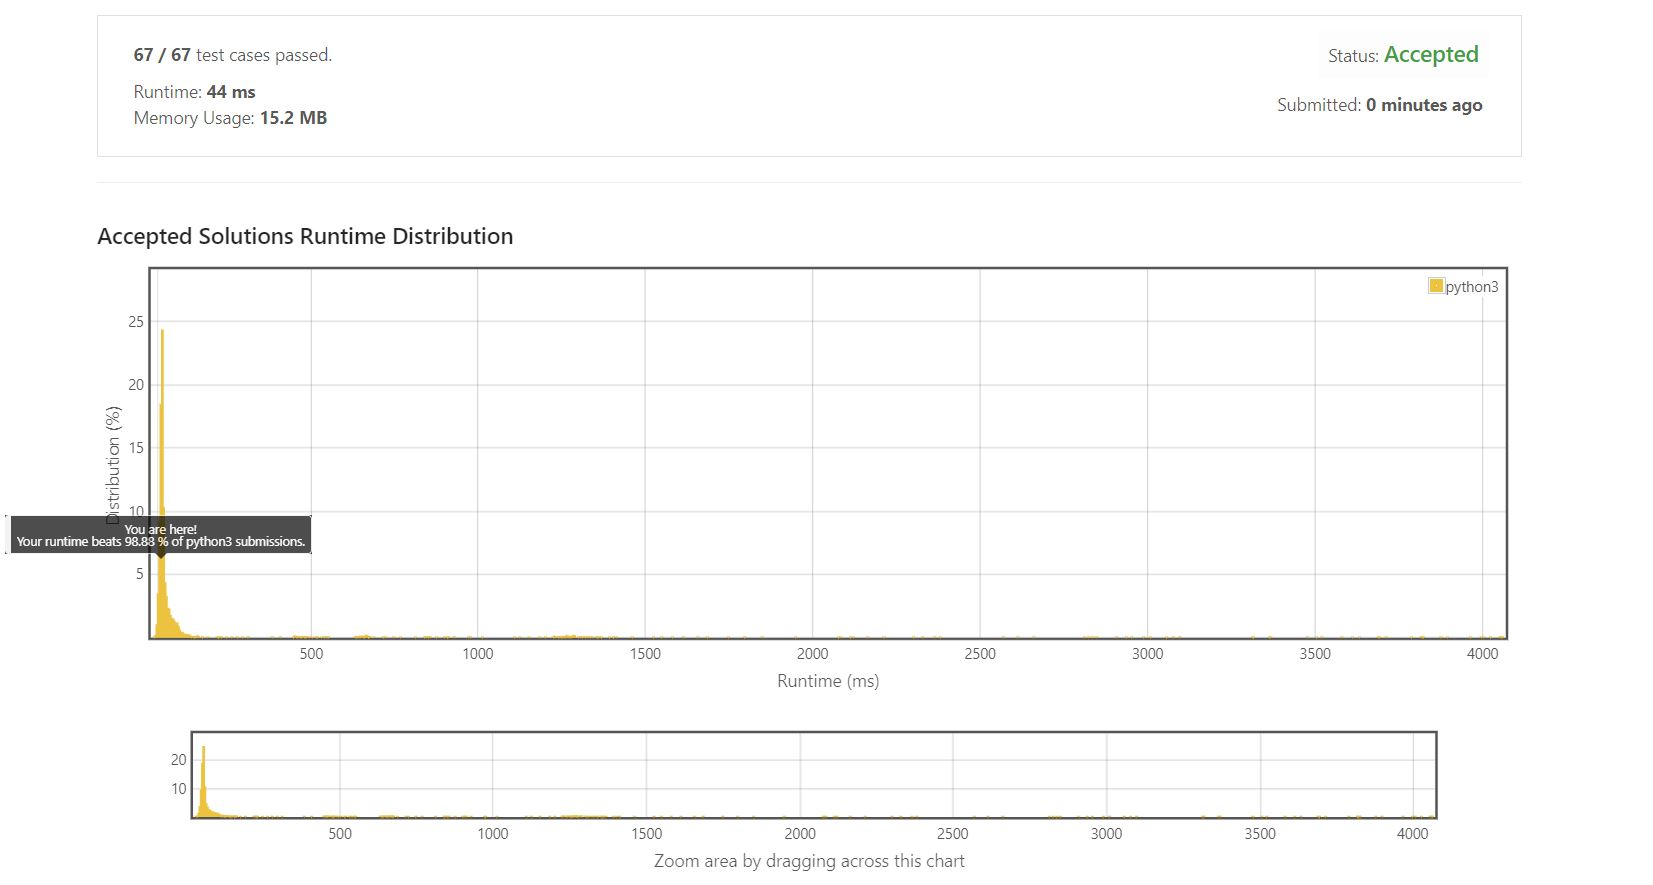
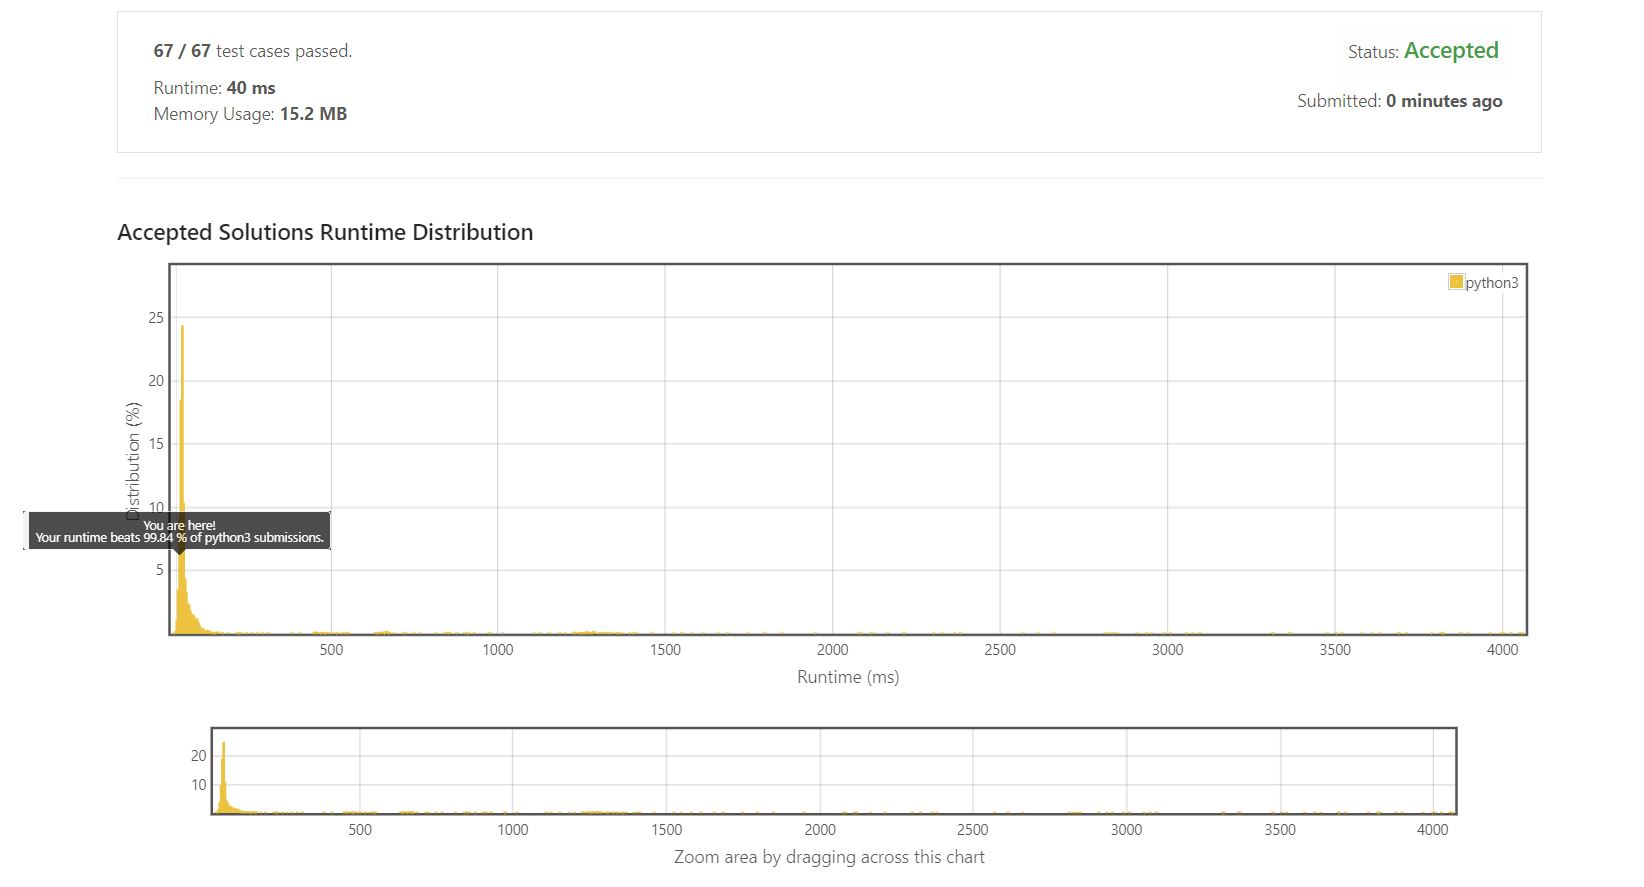
21/03/11 #5

diff --git a/Array/(H) Longest Consecutive Sequence/set.py b/Array/(H) Longest Consecutive Sequence/set.py
@@ -1,0 +1,20 @@
+# https://leetcode.com/problems/longest-consecutive-sequence/
+class Solution:
+    def longestConsecutive(self, nums: List[int]) -> int:
+        l=len(nums)
+        if l==0: return 0
+        elif l==1: return 1
+        
+        nums=set(nums)
+        maxsofar=1
+        for num in nums:
+            if num-1 not in nums:
+                at=num
+                s=1
+                while(at+1 in nums):
+                    at+=1
+                    s+=1
+                if s>maxsofar: maxsofar=s
+        return maxsofar
+        
+        
